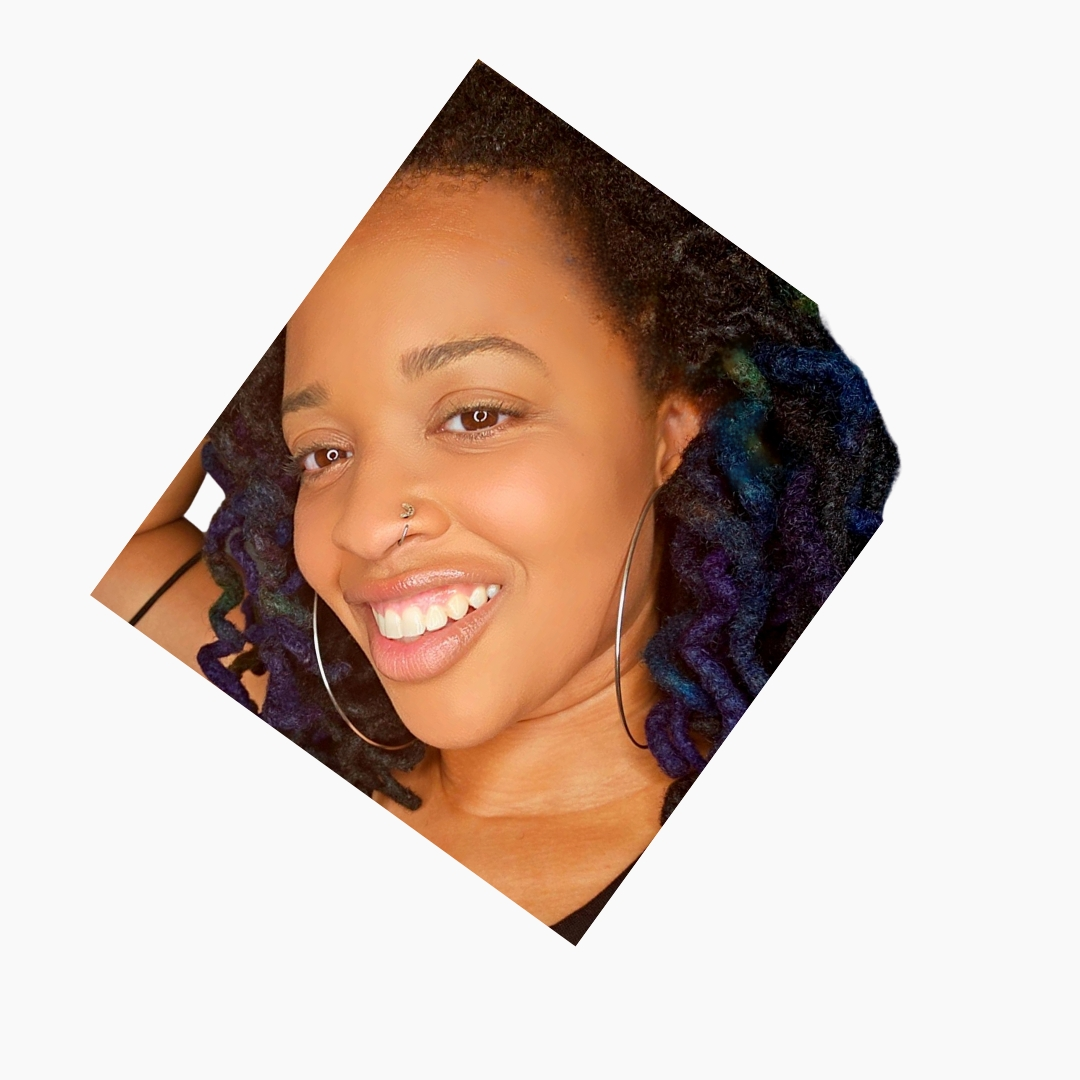
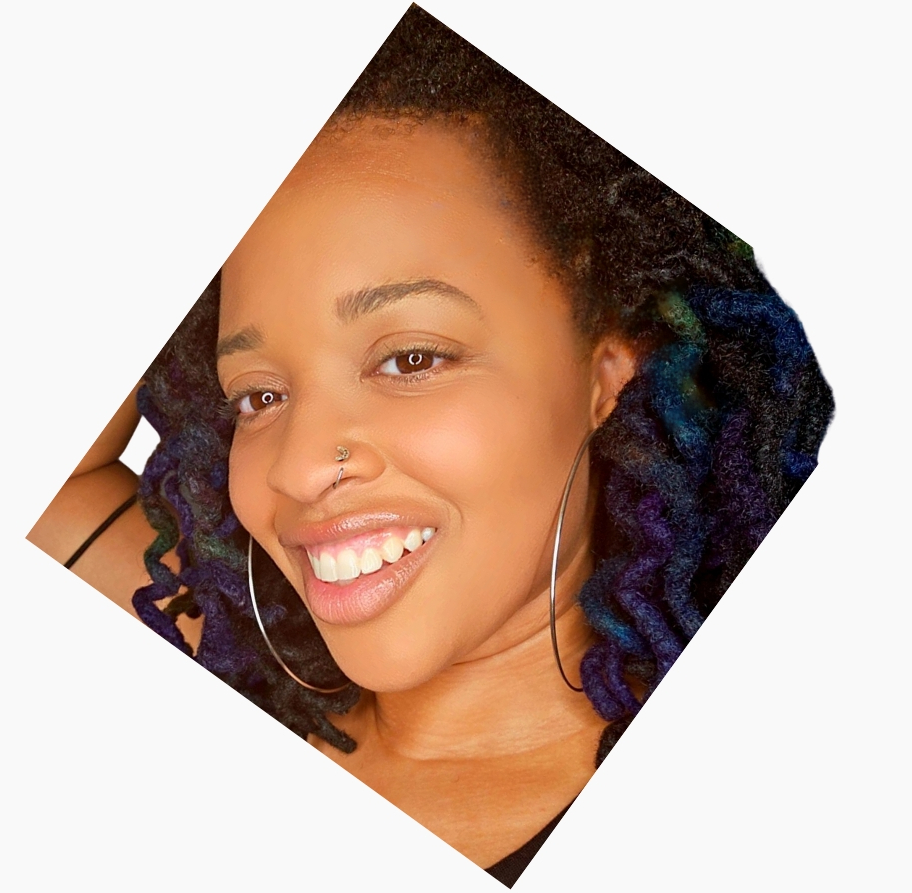
style updates

diff --git a/src/components/Pages/AboutPage.js b/src/components/Pages/AboutPage.js
@@ -18,18 +18,91 @@ function AboutPage() {
 
             <section className="container">
                 <div className="row mb-5">
-                    <div className="col-md-12"><h2 className="text-center"><i>"Where Passion Meets Playtime"</i></h2>
+                    <div className="section-title" dataAos="fade-up">
+                        <h2>Meet</h2>
+                        <p sx={{ color: '#3B38DA' }}>Where Passion Meets Playtime</p>
+                    </div>
+                    {/* <div className="col-md-12"><h2 className="text-center"><i>"Where Passion Meets Playtime"</i></h2>
+                    </div> */}
+                </div>
+                <div class="row">
+                    <div class="col-md-12">
+                    <h3 className='text-center'>Meet Amber Brown</h3>
+                        <div className="d-flex justify-content-center">
+                            {/* <img src="assets/img/about/amber.jpg" className="img-fluid page-img " alt="" style={{ width: '250px' }} /> */}
+                            {/* <div class="losange">
+                                <div class="los1"> */}
+                                    <img src="assets/img/about/amber-bio.png" style={{width:'200px',transform: 'rotate(10deg)'}}/>
+                                {/* </div>
+                            </div> */}
+                        </div>
+                        <h3 className='text-center'>Owner & Lead Tot-tender</h3>
+                        <p className="text-center">
+                            Amber Brown is the heart and soul behind Later Tots. With over twenty years of experience in child care and more than a decade as a dedicated nanny, Amber has made a profound impact on countless families. She holds a degree in Early Childhood Development, which has fueled her passion for bridging the gaps between childcare and the diverse needs of families.
+
+                        </p>
+                        <p className="text-center">
+                            Caring for tots has always been Amber's calling, making her career choice easy and natural. Her hard work, dedication, and genuine love for what she does shine through in every interaction. Amber is committed to creating a safe, nurturing, and joyful environment at Later Tots, where every child can thrive.
+
+                        </p>
+                        <p className="text-center">With high hopes and great enthusiasm, Amber is excited to see Later Tots grow into a beloved community resource, where tots and their families feel supported, cared for, and always welcome.</p>
+
+                        </div>
+                </div>
+                <div className="row content mt-5">
+                    <div className="col-12">
+                        <h3 className='text-center'>Meet Our Amazing Tot-Tenders</h3>
+                        <div className="d-flex justify-content-center">
+                            {/* <div class="losange" style={{width:'150px', height:'150px', marginTop:'20px'}}> */}
+                                {/* <div class="los1"> */}
+                                    <img src="assets/img/about/tottender.png" />
+                                {/* </div> */}
+                            {/* </div> */}
+                        </div>
+                        <p className='mt-5 text-center'>Our team is made up of trained professionals who are passionate about creating a nurturing environment where children can thrive. Every tot-tender is certified in First Aid and CPR and has undergone thorough background checks, ensuring the highest standards of safety and care for your tots. We are dedicated to making every moment at Later Tots a memorable one. We treat your tots like our own, providing the love and attention they deserve.</p>
+                    </div>
+                    
+                </div>
+                {/* <div className="row content">
+                    <div className="col-5">
+                        <h3 className='text-center'>Meet Our Amazing Tot-Tenders</h3>
+                        <div className="d-flex justify-content-center">
+                            <div class="losange" style={{width:'150px', height:'150px', marginTop:'20px'}}>
+                                <div class="los1">
+                                    <img src="assets/img/about/tottender.png" />
+                                </div>
+                            </div>
+                        </div>
+                        <p className='mt-5'>Our team is made up of trained professionals who are passionate about creating a nurturing environment where children can thrive. Every tot-tender is certified in First Aid and CPR and has undergone thorough background checks, ensuring the highest standards of safety and care for your tots. We are dedicated to making every moment at Later Tots a memorable one. We treat your tots like our own, providing the love and attention they deserve.</p>
+                    </div>
+                    <div className="col">
+                        <h3 className='text-center'>Meet Amber Brown</h3>
+                        <div className="d-flex justify-content-center">
+                          
+                                    <img src="assets/img/about/amber-bio.png" style={{width:'200px',transform: 'rotate(10deg)'}}/>
+                             
+                        </div>
+                        <h3 className='text-center'>Owner & Lead Tot-tender</h3>
+                        <p >
+                            Amber Brown is the heart and soul behind Later Tots. With over twenty years of experience in child care and more than a decade as a dedicated nanny, Amber has made a profound impact on countless families. She holds a degree in Early Childhood Development, which has fueled her passion for bridging the gaps between childcare and the diverse needs of families.
+
+                        </p>
+                        <p>
+                            Caring for tots has always been Amber's calling, making her career choice easy and natural. Her hard work, dedication, and genuine love for what she does shine through in every interaction. Amber is committed to creating a safe, nurturing, and joyful environment at Later Tots, where every child can thrive.
+
+                        </p>
+                        <p>With high hopes and great enthusiasm, Amber is excited to see Later Tots grow into a beloved community resource, where tots and their families feel supported, cared for, and always welcome.</p>
+
                     </div>
                 </div>
-
                 <div className="row content">
                     <div className="col-md-3" dataAos="fade-right">
-                        <img src="assets/img/about/tottender.png" className="img-fluid page-img" alt="" />
+                        <img src="assets/img/about/tottender.png" className="img-fluid page-img" style={{ width: '250px' }} alt="" />
                     </div>
                     <div className="col-md-8" dataAos="fade-up">
                         <div dataAos="fade-up">
                             <h3 className='mt-5'>Meet Our Amazing Tot-Tenders</h3>
-                            <p  className='mt-5'>Our team is made up of trained professionals who are passionate about creating a nurturing environment where children can thrive. Every tot-tender is certified in First Aid and CPR and has undergone thorough background checks, ensuring the highest standards of safety and care for your tots. We are dedicated to making every moment at Later Tots a memorable one. We treat your tots like our own, providing the love and attention they deserve.</p>
+                            <p className='mt-5'>Our team is made up of trained professionals who are passionate about creating a nurturing environment where children can thrive. Every tot-tender is certified in First Aid and CPR and has undergone thorough background checks, ensuring the highest standards of safety and care for your tots. We are dedicated to making every moment at Later Tots a memorable one. We treat your tots like our own, providing the love and attention they deserve.</p>
 
                         </div>
 
@@ -38,7 +111,7 @@ function AboutPage() {
 
                 <div className="row content mt-3">
                     <div className="col-md-4 order-1 order-md-2 mt-5" dataAos="fade-left">
-                        <img src="assets/img/about/amber.jpg" className="img-fluid page-img mt-4" alt="" />
+                        <img src="assets/img/about/amber.jpg" className="img-fluid page-img mt-4 amber-about-img" alt="" style={{ width: '250px' }} />
                     </div>
                     <div className="col-md-8 pt-5 mt-5 order-2 order-md-1" dataAos="fade-up">
                         <h3 className='mb-5'>Meet Amber Brown, Owner & Lead Tot-tender</h3>
@@ -53,7 +126,7 @@ function AboutPage() {
                         <p>With high hopes and great enthusiasm, Amber is excited to see Later Tots grow into a beloved community resource, where tots and their families feel supported, cared for, and always welcome.</p>
 
                     </div>
-                </div>
+                </div> */}
 
             </section>
 

diff --git a/src/components/Pages/TotsTidbits.js b/src/components/Pages/TotsTidbits.js
@@ -5,18 +5,30 @@ import React from 'react';
 function TotsTidbits() {
     return (
         <div className='bg-white'>
+            <section id="tidbits" className="tidbits-hero" >
+                <div className="container">
+                    <div className="row justify-content-center">
+                        <div className="col-lg-7 pt-5 pt-lg-0 order-2 order-lg-1 d-flex align-items-center">
+
+                        </div>
+
+                    </div>
+                </div>
+
+
+            </section>
 
             <section className="mx-1">
                 <div className="container">
                     <div className="section-title" dataAos="fade-up">
-                        <h2>Tots & Tidbits</h2>
-                        <p sx={{ color: '#3B38DA' }}>TotsTidbits</p>
+                        <h2>Important Information</h2>
+                        <p sx={{ color: '#3B38DA' }}>Tots & Tidbits</p>
                     </div>
 
 
                 </div>
             </section>
-            <section id="details" className="details" style={{paddingTop:0}}>
+            <section id="details" className="details" style={{ paddingTop: 0 }}>
                 <div className="container">
 
                     <div className="row content">
@@ -44,7 +56,7 @@ function TotsTidbits() {
 
                     <div className="row content">
                         <div className="col-md-6 order-1 order-md-2" dataAos="fade-left">
-                        <h3>Food Policy</h3>
+                            <h3>Food Policy</h3>
                             {/* <p>Cupiditate placeat cupiditate placeat est ipsam culpa. Delectus quia minima quod. Sunt saepe odit aut quia voluptatem hic voluptas dolor doloremque.</p> */}
                             <ul>
                                 <li><i className="bi bi-check"></i> Outside food and drinks are permitted, but must not contain peanuts, gum, or candy.
@@ -67,7 +79,7 @@ function TotsTidbits() {
                         </div>
                     </div>
 
-                    
+
 
                     <div className="row content">
                         <div className="col-md-4 order-1 order-md-2" dataAos="fade-left">

diff --git a/public/assets/css/style.css b/public/assets/css/style.css
@@ -734,6 +734,42 @@ Team Tots
   position: relative;
 }
 
+/*
+Testimonials
+*/
+.testimonials-hero{
+  background: url("../img/testimonials/testimonialhero.jpg") top center no-repeat;
+  background-size: cover;
+  /* padding: 60px 0; */
+  height: 500px;
+  width: 100%;
+  /* background: linear-gradient(rgba(0, 0, 0, 0.5), rgba(0, 0, 0, 0.5)), url(../img/kids2.jpg); */
+  position: relative;
+}
+/*
+Careers
+*/
+.careers-hero{
+  background: url("../img/careers/careers.jpg") center center no-repeat;
+  background-size: cover;
+  /* padding: 60px 0; */
+  height: 500px;
+  width: 100%;
+  /* background: linear-gradient(rgba(0, 0, 0, 0.5), rgba(0, 0, 0, 0.5)), url(../img/kids2.jpg); */
+  position: relative;
+}
+/*
+Tidbits
+*/
+.tidbits-hero{
+  background: url("../img/lt-logo.png") center center no-repeat;
+  background-size: contain;
+  /* padding: 60px 0; */
+  height: 500px;
+  width: 100%;
+  /* background: linear-gradient(rgba(0, 0, 0, 0.5), rgba(0, 0, 0, 0.5)), url(../img/kids2.jpg); */
+  position: relative;
+}
 
 .page-img{
   border-radius:50%;
@@ -995,6 +1031,32 @@ section {
   z-index: 200;
   animation: none;
   border-radius: 0;
+}
+.amber-about-img{
+  width:200px;
+}
+
+.losange, .losange div {
+  margin: 0 auto;
+  transform-origin: 50% 50%;
+  overflow: hidden;
+  width: 250px;
+  height: 250px;
+}
+
+.losange {
+  transform: rotate(45deg) translateY(10px);
+}
+
+.losange .los1 {
+  width: 355px;
+  height: 355px;
+  transform: rotate(-45deg) translateY(-74px);
+}
+
+.losange .los1 img {
+  width: 100%;
+  height: auto;
 }
 
 @keyframes pulsate-btn {

diff --git a/src/components/Pages/TestimonialsPage.js b/src/components/Pages/TestimonialsPage.js
@@ -5,11 +5,10 @@ import React from 'react';
 function TestimonialsPage() {
     return (
         <div className='bg-white'>
-            {/* <section id="testimonials" className="testimonials" >
+            <section id="testimonials" className="testimonials-hero" >
                 <div className="container">
                     <div className="row justify-content-center">
                         <div className="col-lg-7 pt-5 pt-lg-0 order-2 order-lg-1 d-flex align-items-center">
-                            <img src="./assets/img/testimonials/transparenttots.png" className='img-fluid' alt='colorful hands' />
 
                         </div>
 
@@ -17,8 +16,7 @@ function TestimonialsPage() {
                 </div>
 
 
-
-            </section> */}
+            </section>
 
 
             <section className="pt-5 pb-5">

diff --git a/src/components/Pages/CareersPage.js b/src/components/Pages/CareersPage.js
@@ -3,7 +3,7 @@ import React from 'react';
 function CareersPage() {
     return (
         <div className='bg-white'>
-            <section id="deals" className="deals" >
+            <section id="careers" className="careers-hero" >
                 <div className="container">
                     <div className="row justify-content-center">
                         <div className="col-lg-7 pt-5 pt-lg-0 order-2 order-lg-1 d-flex align-items-center">
